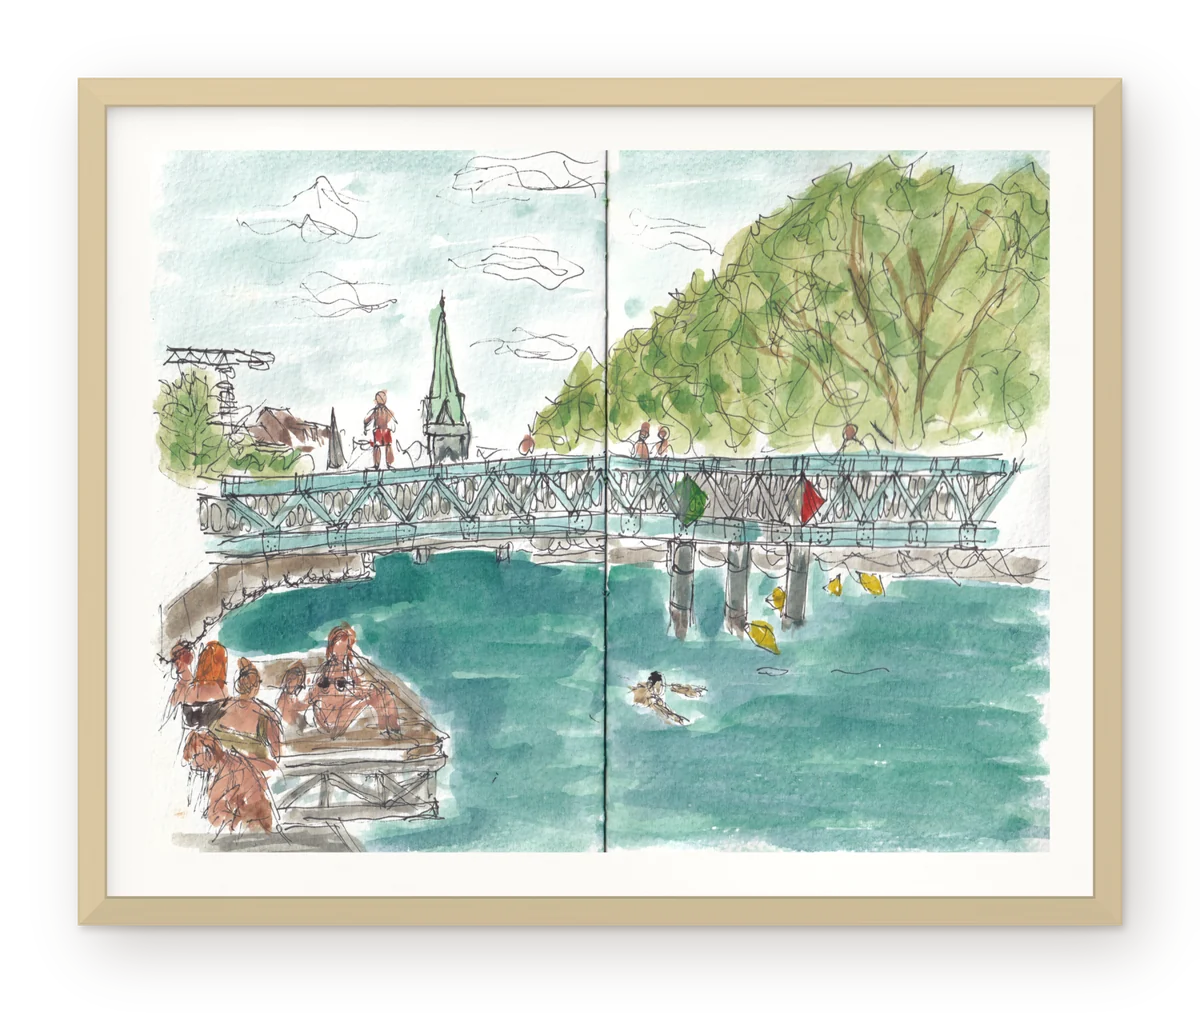
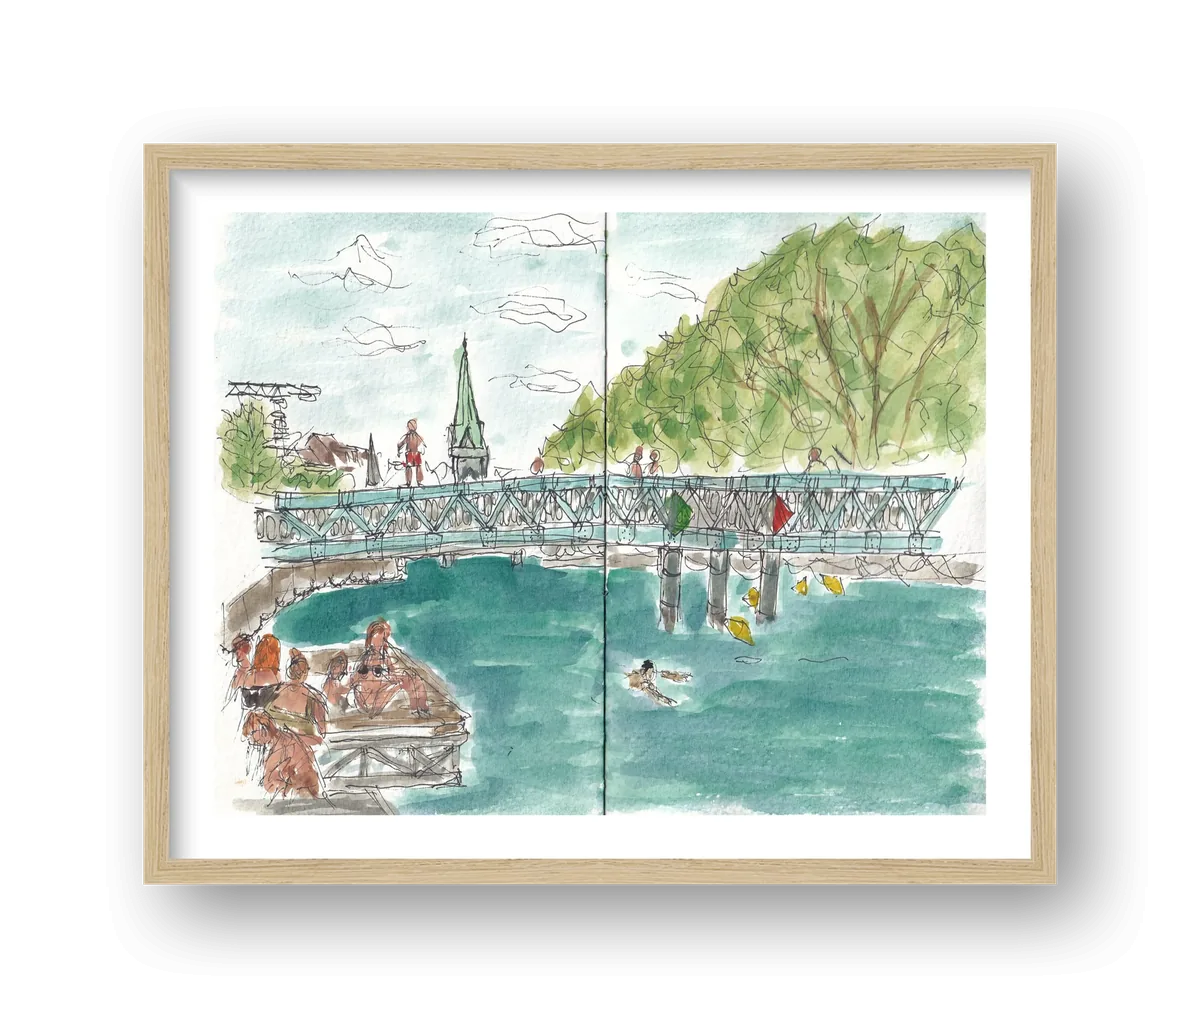
Use creativehub oak-frame mockups for the artworks
Claude-Session: https://claude.ai/code/session_01R3pG8aRQiyrNoZBZpSYuL4

diff --git a/index.html b/index.html
@@ -142,7 +142,7 @@ nav .cart{margin-left:auto;margin-right:-10px}
     </div>
   </div>
   <figure class="heroart">
-    <a href="https://www.createdrops.com/summer-autumn-2026-2?product=switzerland-live-sketched-kapellbrucke-lucerne-sketched-21-sept-2026" data-goatcounter-click="print-kapellbruecke-hero" aria-label="Kapellbrücke, Lucerne: see prints"><img src="img/kapellbruecke-lucerne.webp" alt="Kapellbrücke, Lucerne, ink and watercolour sketch framed in oak" width="1200" height="906" fetchpriority="high"></a>
+    <a href="https://www.createdrops.com/summer-autumn-2026-2?product=switzerland-live-sketched-kapellbrucke-lucerne-sketched-21-sept-2026" data-goatcounter-click="print-kapellbruecke-hero" aria-label="Kapellbrücke, Lucerne: see prints"><img src="img/kapellbruecke-lucerne.webp" alt="Kapellbrücke, Lucerne, ink and watercolour sketch framed in oak" width="1200" height="910" fetchpriority="high"></a>
     <figcaption>Kapellbrücke · Lucerne · sketched 21 Sept 2026 · <a href="https://www.createdrops.com/summer-autumn-2026-2?product=switzerland-live-sketched-kapellbrucke-lucerne-sketched-21-sept-2026">From €89</a></figcaption>
   </figure>
 </section>
@@ -168,7 +168,7 @@ nav .cart{margin-left:auto;margin-right:-10px}
     <div class="rows">
       <div class="row">
         <figure class="wide" style="grid-column: 1 / 13; align-self: center; margin-top: 0px">
-          <a href="https://www.createdrops.com/summer-autumn-2026-2?product=switzerland-live-sketched-zurichhorn-zurich-sketched-22-oct-2026" data-goatcounter-click="print-zuerichhorn-zurich" aria-label="Zürichhorn, Zurich: see prints"><img src="img/zuerichhorn-zurich.webp" alt="Zürichhorn, Zurich: ink and watercolour sketch by Celestine Tan, framed in oak" width="1200" height="906" loading="eager" decoding="async"></a>
+          <a href="https://www.createdrops.com/summer-autumn-2026-2?product=switzerland-live-sketched-zurichhorn-zurich-sketched-22-oct-2026" data-goatcounter-click="print-zuerichhorn-zurich" aria-label="Zürichhorn, Zurich: see prints"><img src="img/zuerichhorn-zurich.webp" alt="Zürichhorn, Zurich: ink and watercolour sketch by Celestine Tan, framed in oak" width="1200" height="910" loading="eager" decoding="async"></a>
           <figcaption>
             <span class="t">Zürichhorn</span>
             <span class="m">Zurich · sketched 22 Oct 2026</span>
@@ -178,7 +178,7 @@ nav .cart{margin-left:auto;margin-right:-10px}
       </div>
       <div class="row">
         <figure class="tall" style="grid-column: 2 / 7; align-self: center; margin-top: 0px">
-          <a href="https://www.createdrops.com/summer-autumn-2026-2?product=switzerland-live-sketched-fraumunster-zurich-sketched-13-oct-2026" data-goatcounter-click="print-fraumuenster-zurich" aria-label="Fraumünster, Zurich: see prints"><img src="img/fraumuenster-zurich.webp" alt="Fraumünster, Zurich: ink and watercolour sketch by Celestine Tan, framed in oak" width="1170" height="1200" loading="lazy" decoding="async"></a>
+          <a href="https://www.createdrops.com/summer-autumn-2026-2?product=switzerland-live-sketched-fraumunster-zurich-sketched-13-oct-2026" data-goatcounter-click="print-fraumuenster-zurich" aria-label="Fraumünster, Zurich: see prints"><img src="img/fraumuenster-zurich.webp" alt="Fraumünster, Zurich: ink and watercolour sketch by Celestine Tan, framed in oak" width="1200" height="1200" loading="lazy" decoding="async"></a>
           <figcaption>
             <span class="t">Fraumünster</span>
             <span class="m">Zurich · sketched 13 Oct 2026</span>
@@ -186,7 +186,7 @@ nav .cart{margin-left:auto;margin-right:-10px}
           </figcaption>
         </figure>
         <figure class="tall" style="grid-column: 7 / 13; align-self: end; margin-top: 140px">
-          <a href="https://www.createdrops.com/summer-autumn-2026-2?product=switzerland-live-sketched-badi-tiefenbrunnen-zurich-sketched-23-aug-2026" data-goatcounter-click="print-badi-tiefenbrunnen-zurich" aria-label="Badi Tiefenbrunnen, Zurich: see prints"><img src="img/badi-tiefenbrunnen-zurich.webp" alt="Badi Tiefenbrunnen, Zurich: ink and watercolour sketch by Celestine Tan, framed in oak" width="1200" height="1034" loading="lazy" decoding="async"></a>
+          <a href="https://www.createdrops.com/summer-autumn-2026-2?product=switzerland-live-sketched-badi-tiefenbrunnen-zurich-sketched-23-aug-2026" data-goatcounter-click="print-badi-tiefenbrunnen-zurich" aria-label="Badi Tiefenbrunnen, Zurich: see prints"><img src="img/badi-tiefenbrunnen-zurich.webp" alt="Badi Tiefenbrunnen, Zurich: ink and watercolour sketch by Celestine Tan, framed in oak" width="1200" height="1028" loading="lazy" decoding="async"></a>
           <figcaption>
             <span class="t">Badi Tiefenbrunnen</span>
             <span class="m">Zurich · sketched 23 Aug 2026</span>
@@ -196,7 +196,7 @@ nav .cart{margin-left:auto;margin-right:-10px}
       </div>
       <div class="row">
         <figure class="wide" style="grid-column: 1 / 11; align-self: center; margin-top: 0px">
-          <a href="https://www.createdrops.com/summer-autumn-2026-2?product=switzerland-live-sketched-landesmuseum-zurich-sketched-8-14-15-sept-2026" data-goatcounter-click="print-landesmuseum-zurich" aria-label="Landesmuseum, Zurich: see prints"><img src="img/landesmuseum-zurich.webp" alt="Landesmuseum, Zurich: ink and watercolour sketch by Celestine Tan, framed in oak" width="1200" height="906" loading="lazy" decoding="async"></a>
+          <a href="https://www.createdrops.com/summer-autumn-2026-2?product=switzerland-live-sketched-landesmuseum-zurich-sketched-8-14-15-sept-2026" data-goatcounter-click="print-landesmuseum-zurich" aria-label="Landesmuseum, Zurich: see prints"><img src="img/landesmuseum-zurich.webp" alt="Landesmuseum, Zurich: ink and watercolour sketch by Celestine Tan, framed in oak" width="1200" height="910" loading="lazy" decoding="async"></a>
           <figcaption>
             <span class="t">Landesmuseum</span>
             <span class="m">Zurich · sketched 8, 14 &amp; 15 Sept 2026</span>
@@ -206,7 +206,7 @@ nav .cart{margin-left:auto;margin-right:-10px}
       </div>
       <div class="row">
         <figure class="tall" style="grid-column: 1 / 7; align-self: start; margin-top: 0px">
-          <a href="https://www.createdrops.com/summer-autumn-2026-2?product=switzerland-live-sketched-dynamo-zurich-sketched-aug-2026" data-goatcounter-click="print-dynamo-zurich" aria-label="Dynamo, Zurich: see prints"><img src="img/dynamo-zurich.webp" alt="Dynamo, Zurich: ink and watercolour sketch by Celestine Tan, framed in oak" width="1200" height="1034" loading="lazy" decoding="async"></a>
+          <a href="https://www.createdrops.com/summer-autumn-2026-2?product=switzerland-live-sketched-dynamo-zurich-sketched-aug-2026" data-goatcounter-click="print-dynamo-zurich" aria-label="Dynamo, Zurich: see prints"><img src="img/dynamo-zurich.webp" alt="Dynamo, Zurich: ink and watercolour sketch by Celestine Tan, framed in oak" width="1200" height="1028" loading="lazy" decoding="async"></a>
           <figcaption>
             <span class="t">Dynamo</span>
             <span class="m">Zurich · sketched Aug 2026</span>
@@ -214,7 +214,7 @@ nav .cart{margin-left:auto;margin-right:-10px}
           </figcaption>
         </figure>
         <figure class="tall" style="grid-column: 8 / 13; align-self: center; margin-top: 120px">
-          <a href="https://www.createdrops.com/summer-autumn-2026-2?product=switzerland-live-sketched-sihlwald-zurich-sketched-12-oct-2026" data-goatcounter-click="print-sihlwald-zurich" aria-label="Sihlwald, Zurich: see prints"><img src="img/sihlwald-zurich.webp" alt="Sihlwald, Zurich: ink and watercolour sketch by Celestine Tan, framed in oak" width="1170" height="1200" loading="lazy" decoding="async"></a>
+          <a href="https://www.createdrops.com/summer-autumn-2026-2?product=switzerland-live-sketched-sihlwald-zurich-sketched-12-oct-2026" data-goatcounter-click="print-sihlwald-zurich" aria-label="Sihlwald, Zurich: see prints"><img src="img/sihlwald-zurich.webp" alt="Sihlwald, Zurich: ink and watercolour sketch by Celestine Tan, framed in oak" width="1200" height="1200" loading="lazy" decoding="async"></a>
           <figcaption>
             <span class="t">Sihlwald</span>
             <span class="m">Zurich · sketched 12 Oct 2026</span>
@@ -224,7 +224,7 @@ nav .cart{margin-left:auto;margin-right:-10px}
       </div>
       <div class="row">
         <figure class="wide" style="grid-column: 3 / 13; align-self: center; margin-top: 0px">
-          <a href="https://www.createdrops.com/summer-autumn-2026-2?product=switzerland-live-sketched-opera-house-zurich-sketched-2-sept-2026" data-goatcounter-click="print-opera-house-zurich" aria-label="Opera House, Zurich: see prints"><img src="img/opera-house-zurich.webp" alt="Opera House, Zurich: ink and watercolour sketch by Celestine Tan, framed in oak" width="1200" height="906" loading="lazy" decoding="async"></a>
+          <a href="https://www.createdrops.com/summer-autumn-2026-2?product=switzerland-live-sketched-opera-house-zurich-sketched-2-sept-2026" data-goatcounter-click="print-opera-house-zurich" aria-label="Opera House, Zurich: see prints"><img src="img/opera-house-zurich.webp" alt="Opera House, Zurich: ink and watercolour sketch by Celestine Tan, framed in oak" width="1200" height="910" loading="lazy" decoding="async"></a>
           <figcaption>
             <span class="t">Opera House</span>
             <span class="m">Zurich · sketched 2 Sept 2026</span>
@@ -234,7 +234,7 @@ nav .cart{margin-left:auto;margin-right:-10px}
       </div>
       <div class="row">
         <figure class="tall" style="grid-column: 1 / 7; align-self: center; margin-top: 0px">
-          <a href="https://www.createdrops.com/summer-autumn-2026-2?product=switzerland-live-sketched-spheres-zurich-sketched-27-aug-2026" data-goatcounter-click="print-spheres-zurich" aria-label="Spheres, Zurich: see prints"><img src="img/spheres-zurich.webp" alt="Spheres, Zurich: ink and watercolour sketch by Celestine Tan, framed in oak" width="1200" height="1034" loading="lazy" decoding="async"></a>
+          <a href="https://www.createdrops.com/summer-autumn-2026-2?product=switzerland-live-sketched-spheres-zurich-sketched-27-aug-2026" data-goatcounter-click="print-spheres-zurich" aria-label="Spheres, Zurich: see prints"><img src="img/spheres-zurich.webp" alt="Spheres, Zurich: ink and watercolour sketch by Celestine Tan, framed in oak" width="1200" height="1028" loading="lazy" decoding="async"></a>
           <figcaption>
             <span class="t">Spheres</span>
             <span class="m">Zurich · sketched 27 Aug 2026</span>
@@ -242,7 +242,7 @@ nav .cart{margin-left:auto;margin-right:-10px}
           </figcaption>
         </figure>
         <figure class="tall" style="grid-column: 7 / 13; align-self: end; margin-top: 160px">
-          <a href="https://www.createdrops.com/summer-autumn-2026-2?product=switzerland-live-sketched-wallisellen-zurich-sketched-26-aug-2026" data-goatcounter-click="print-wallisellen-zurich" aria-label="Wallisellen, Zurich: see prints"><img src="img/wallisellen-zurich.webp" alt="Wallisellen, Zurich: ink and watercolour sketch by Celestine Tan, framed in oak" width="1200" height="1034" loading="lazy" decoding="async"></a>
+          <a href="https://www.createdrops.com/summer-autumn-2026-2?product=switzerland-live-sketched-wallisellen-zurich-sketched-26-aug-2026" data-goatcounter-click="print-wallisellen-zurich" aria-label="Wallisellen, Zurich: see prints"><img src="img/wallisellen-zurich.webp" alt="Wallisellen, Zurich: ink and watercolour sketch by Celestine Tan, framed in oak" width="1200" height="1028" loading="lazy" decoding="async"></a>
           <figcaption>
             <span class="t">Wallisellen</span>
             <span class="m">Zurich · sketched 26 Aug 2026</span>
@@ -260,7 +260,7 @@ nav .cart{margin-left:auto;margin-right:-10px}
     <div class="rows">
       <div class="row">
         <figure class="wide" style="grid-column: 1 / 13; align-self: center; margin-top: 0px">
-          <a href="https://www.createdrops.com/summer-autumn-2026-2?product=switzerland-live-sketched-rhine-falls-schaffhausen-sketched-22-sept-2026" data-goatcounter-click="print-rhine-falls-schaffhausen" aria-label="Rhine Falls, Schaffhausen: see prints"><img src="img/rhine-falls-schaffhausen.webp" alt="Rhine Falls, Schaffhausen: ink and watercolour sketch by Celestine Tan, framed in oak" width="1200" height="906" loading="lazy" decoding="async"></a>
+          <a href="https://www.createdrops.com/summer-autumn-2026-2?product=switzerland-live-sketched-rhine-falls-schaffhausen-sketched-22-sept-2026" data-goatcounter-click="print-rhine-falls-schaffhausen" aria-label="Rhine Falls, Schaffhausen: see prints"><img src="img/rhine-falls-schaffhausen.webp" alt="Rhine Falls, Schaffhausen: ink and watercolour sketch by Celestine Tan, framed in oak" width="1200" height="910" loading="lazy" decoding="async"></a>
           <figcaption>
             <span class="t">Rhine Falls</span>
             <span class="m">Schaffhausen · sketched 22 Sept 2026</span>
@@ -270,7 +270,7 @@ nav .cart{margin-left:auto;margin-right:-10px}
       </div>
       <div class="row">
         <figure class="tall" style="grid-column: 1 / 6; align-self: center; margin-top: 0px">
-          <a href="https://www.createdrops.com/summer-autumn-2026-2?product=switzerland-live-sketched-einsiedeln-abbey-schwyz-sketched-17-sept-2026" data-goatcounter-click="print-einsiedeln-abbey-schwyz" aria-label="Einsiedeln Abbey, Schwyz: see prints"><img src="img/einsiedeln-abbey-schwyz.webp" alt="Einsiedeln Abbey, Schwyz: ink and watercolour sketch by Celestine Tan, framed in oak" width="1170" height="1200" loading="lazy" decoding="async"></a>
+          <a href="https://www.createdrops.com/summer-autumn-2026-2?product=switzerland-live-sketched-einsiedeln-abbey-schwyz-sketched-17-sept-2026" data-goatcounter-click="print-einsiedeln-abbey-schwyz" aria-label="Einsiedeln Abbey, Schwyz: see prints"><img src="img/einsiedeln-abbey-schwyz.webp" alt="Einsiedeln Abbey, Schwyz: ink and watercolour sketch by Celestine Tan, framed in oak" width="1200" height="1200" loading="lazy" decoding="async"></a>
           <figcaption>
             <span class="t">Einsiedeln Abbey</span>
             <span class="m">Schwyz · sketched 17 Sept 2026</span>
@@ -278,7 +278,7 @@ nav .cart{margin-left:auto;margin-right:-10px}
           </figcaption>
         </figure>
         <figure class="wide" style="grid-column: 6 / 13; align-self: end; margin-top: 120px">
-          <a href="https://www.createdrops.com/summer-autumn-2026-2?product=switzerland-live-sketched-kapellbrucke-lucerne-sketched-21-sept-2026" data-goatcounter-click="print-kapellbruecke-lucerne" aria-label="Kapellbrücke, Lucerne: see prints"><img src="img/kapellbruecke-lucerne.webp" alt="Kapellbrücke, Lucerne: ink and watercolour sketch by Celestine Tan, framed in oak" width="1200" height="906" loading="lazy" decoding="async"></a>
+          <a href="https://www.createdrops.com/summer-autumn-2026-2?product=switzerland-live-sketched-kapellbrucke-lucerne-sketched-21-sept-2026" data-goatcounter-click="print-kapellbruecke-lucerne" aria-label="Kapellbrücke, Lucerne: see prints"><img src="img/kapellbruecke-lucerne.webp" alt="Kapellbrücke, Lucerne: ink and watercolour sketch by Celestine Tan, framed in oak" width="1200" height="910" loading="lazy" decoding="async"></a>
           <figcaption>
             <span class="t">Kapellbrücke</span>
             <span class="m">Lucerne · sketched 21 Sept 2026</span>
@@ -288,7 +288,7 @@ nav .cart{margin-left:auto;margin-right:-10px}
       </div>
       <div class="row">
         <figure class="wide" style="grid-column: 2 / 12; align-self: center; margin-top: 0px">
-          <a href="https://www.createdrops.com/summer-autumn-2026-2?product=switzerland-live-sketched-basler-munster-basel-sketched-29-sept-2026" data-goatcounter-click="print-basler-muenster-basel" aria-label="Basler Münster, Basel-Stadt: see prints"><img src="img/basler-muenster-basel.webp" alt="Basler Münster, Basel-Stadt: ink and watercolour sketch by Celestine Tan, framed in oak" width="1200" height="906" loading="lazy" decoding="async"></a>
+          <a href="https://www.createdrops.com/summer-autumn-2026-2?product=switzerland-live-sketched-basler-munster-basel-sketched-29-sept-2026" data-goatcounter-click="print-basler-muenster-basel" aria-label="Basler Münster, Basel-Stadt: see prints"><img src="img/basler-muenster-basel.webp" alt="Basler Münster, Basel-Stadt: ink and watercolour sketch by Celestine Tan, framed in oak" width="1200" height="910" loading="lazy" decoding="async"></a>
           <figcaption>
             <span class="t">Basler Münster</span>
             <span class="m">Basel-Stadt · sketched 29 Sept 2026</span>
@@ -298,7 +298,7 @@ nav .cart{margin-left:auto;margin-right:-10px}
       </div>
       <div class="row">
         <figure class="tall" style="grid-column: 1 / 6; align-self: start; margin-top: 0px">
-          <a href="https://www.createdrops.com/summer-autumn-2026-2?product=switzerland-live-sketched-furggelenstock-schwyz-sketched-15-aug-2026" data-goatcounter-click="print-furggelenstock-schwyz" aria-label="Furggelenstock, Schwyz: see prints"><img src="img/furggelenstock-schwyz.webp" alt="Furggelenstock, Schwyz: ink and watercolour sketch by Celestine Tan, framed in oak" width="1200" height="1034" loading="lazy" decoding="async"></a>
+          <a href="https://www.createdrops.com/summer-autumn-2026-2?product=switzerland-live-sketched-furggelenstock-schwyz-sketched-15-aug-2026" data-goatcounter-click="print-furggelenstock-schwyz" aria-label="Furggelenstock, Schwyz: see prints"><img src="img/furggelenstock-schwyz.webp" alt="Furggelenstock, Schwyz: ink and watercolour sketch by Celestine Tan, framed in oak" width="1200" height="1028" loading="lazy" decoding="async"></a>
           <figcaption>
             <span class="t">Furggelenstock</span>
             <span class="m">Schwyz · sketched 15 Aug 2026</span>
@@ -306,7 +306,7 @@ nav .cart{margin-left:auto;margin-right:-10px}
           </figcaption>
         </figure>
         <figure class="wide" style="grid-column: 6 / 13; align-self: center; margin-top: 80px">
-          <a href="https://www.createdrops.com/summer-autumn-2026-2?product=switzerland-live-sketched-st-john-s-abbey-mustair-sketched-15-oct-2026" data-goatcounter-click="print-st-johns-abbey-muestair" aria-label="St. John’s Abbey, Müstair, Graubünden: see prints"><img src="img/st-johns-abbey-muestair.webp" alt="St. John’s Abbey, Müstair, Graubünden: ink and watercolour sketch by Celestine Tan, framed in oak" width="1200" height="906" loading="lazy" decoding="async"></a>
+          <a href="https://www.createdrops.com/summer-autumn-2026-2?product=switzerland-live-sketched-st-john-s-abbey-mustair-sketched-15-oct-2026" data-goatcounter-click="print-st-johns-abbey-muestair" aria-label="St. John’s Abbey, Müstair, Graubünden: see prints"><img src="img/st-johns-abbey-muestair.webp" alt="St. John’s Abbey, Müstair, Graubünden: ink and watercolour sketch by Celestine Tan, framed in oak" width="1200" height="910" loading="lazy" decoding="async"></a>
           <figcaption>
             <span class="t">St. John’s Abbey, Müstair</span>
             <span class="m">Graubünden · sketched 15 Oct 2026</span>
@@ -316,7 +316,7 @@ nav .cart{margin-left:auto;margin-right:-10px}
       </div>
       <div class="row">
         <figure class="wide" style="grid-column: 1 / 11; align-self: center; margin-top: 0px">
-          <a href="https://www.createdrops.com/summer-autumn-2026-2?product=switzerland-live-sketched-engadin-graubunden-sketched-16-oct-2026" data-goatcounter-click="print-engadin-graubuenden" aria-label="Engadin, Graubünden: see prints"><img src="img/engadin-graubuenden.webp" alt="Engadin, Graubünden: ink and watercolour sketch by Celestine Tan, framed in oak" width="1200" height="906" loading="lazy" decoding="async"></a>
+          <a href="https://www.createdrops.com/summer-autumn-2026-2?product=switzerland-live-sketched-engadin-graubunden-sketched-16-oct-2026" data-goatcounter-click="print-engadin-graubuenden" aria-label="Engadin, Graubünden: see prints"><img src="img/engadin-graubuenden.webp" alt="Engadin, Graubünden: ink and watercolour sketch by Celestine Tan, framed in oak" width="1200" height="910" loading="lazy" decoding="async"></a>
           <figcaption>
             <span class="t">Engadin</span>
             <span class="m">Graubünden · sketched 16 Oct 2026</span>
@@ -326,7 +326,7 @@ nav .cart{margin-left:auto;margin-right:-10px}
       </div>
       <div class="row">
         <figure class="wide" style="grid-column: 3 / 13; align-self: center; margin-top: 0px">
-          <a href="https://www.createdrops.com/summer-autumn-2026-2?product=switzerland-live-sketched-old-town-bern-sketched-16-sept-2026" data-goatcounter-click="print-old-town-bern" aria-label="Old Town, Bern: see prints"><img src="img/old-town-bern.webp" alt="Old Town, Bern: ink and watercolour sketch by Celestine Tan, framed in oak" width="1200" height="906" loading="lazy" decoding="async"></a>
+          <a href="https://www.createdrops.com/summer-autumn-2026-2?product=switzerland-live-sketched-old-town-bern-sketched-16-sept-2026" data-goatcounter-click="print-old-town-bern" aria-label="Old Town, Bern: see prints"><img src="img/old-town-bern.webp" alt="Old Town, Bern: ink and watercolour sketch by Celestine Tan, framed in oak" width="1200" height="910" loading="lazy" decoding="async"></a>
           <figcaption>
             <span class="t">Old Town</span>
             <span class="m">Bern · sketched 16 Sept 2026</span>

diff --git a/CHANGELOG.md b/CHANGELOG.md
@@ -1,5 +1,8 @@
 # Changelog
 
+## 1.4 – 25 Nov 2026
+- Replaced the framed artwork images with creativehub's own oak-frame mockups, so the gallery shows exactly what buyers receive.
+
 ## 1.3.2 – 25 Nov 2026
 - Fixed artwork links: the shop renamed its product addresses (switzerland-live-sketched-…) after the drop was renamed, so clicks landed on the shop home page.
 
